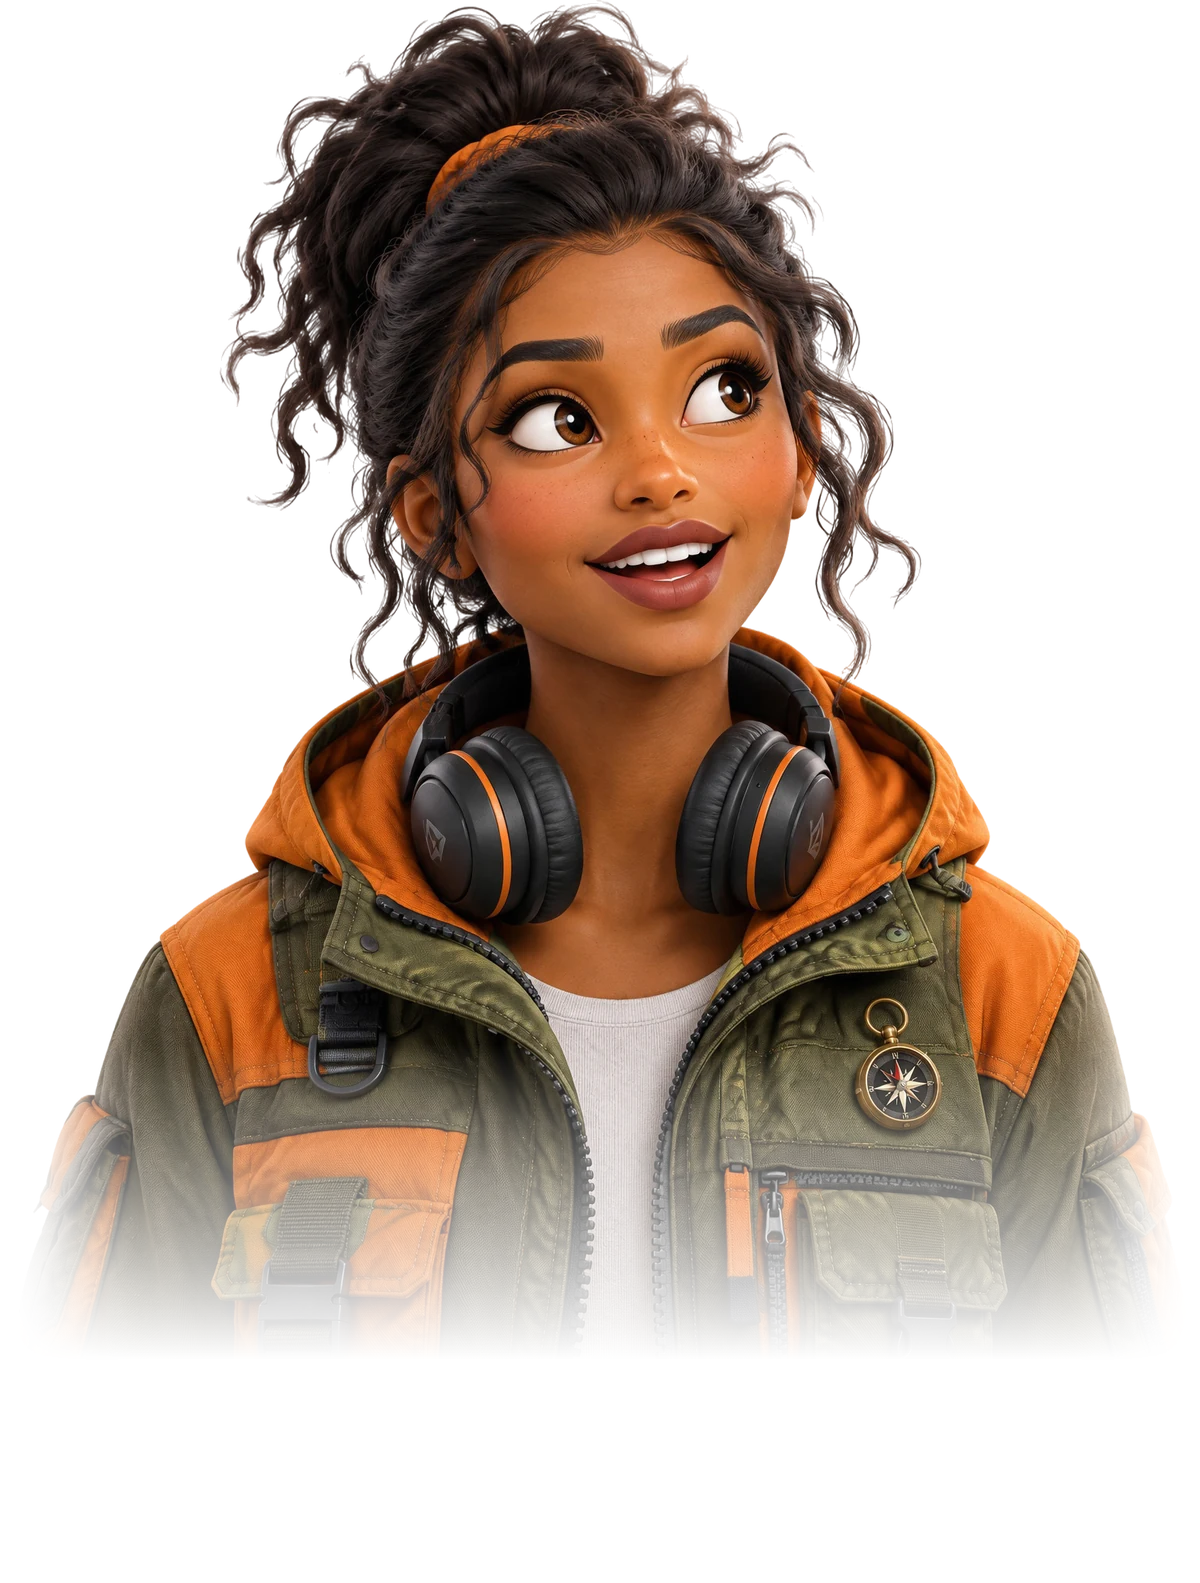
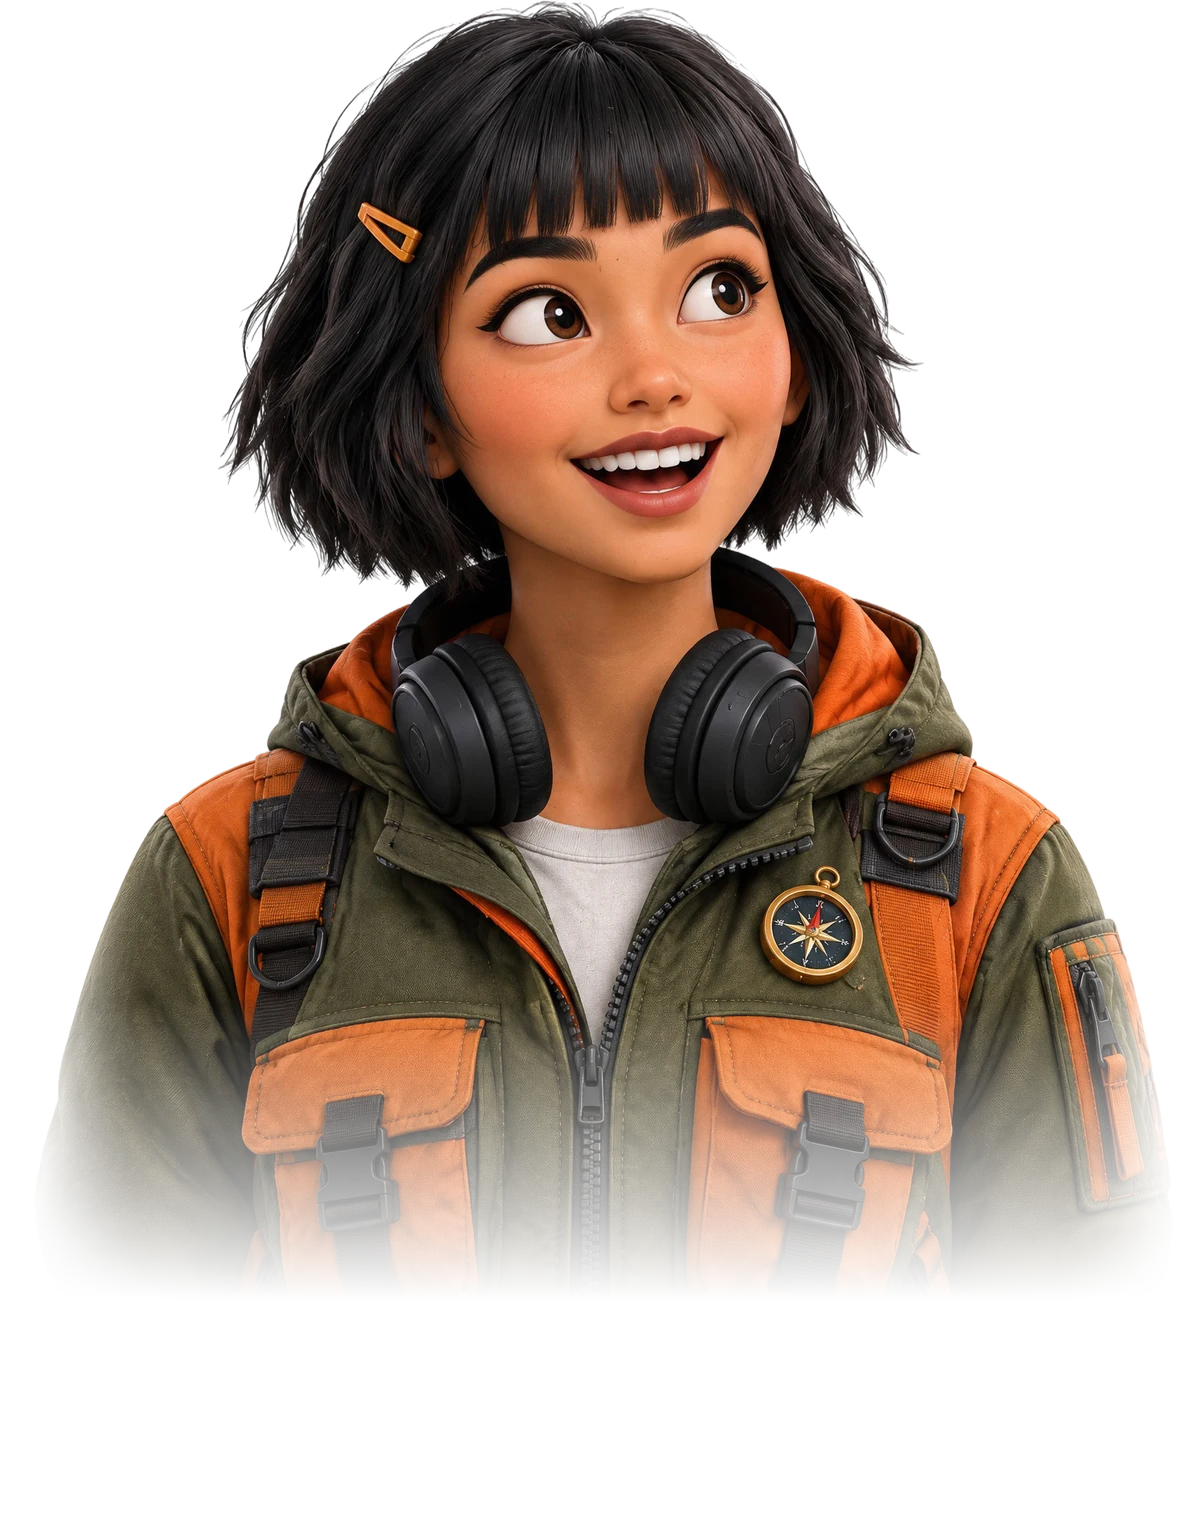
Explorer portrait redone as a Korean young woman (short bob with bangs) to stand apart from the spender

diff --git a/src/components/website/players-data.ts b/src/components/website/players-data.ts
@@ -27,7 +27,7 @@ export const PLAYERS: Player[] = [
     title: "The explorer",
     tagline: "Maps every corner before the main path.",
     body: "Opens every menu. Walks the wrong way on purpose. Finds your bugs before QA does.",
-    picture: "/players/explorer.webp?v=2",
+    picture: "/players/explorer.webp?v=3",
     traits: traits(0.95, 0.72, 0.55, 0.6),
   },
   {
